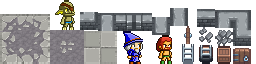
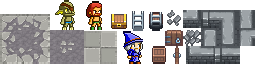
Added level class to load from pixmap

diff --git a/core/src/com/mygdx/game/Level.java b/core/src/com/mygdx/game/Level.java
@@ -1,0 +1,313 @@
+package com.mygdx.game;
+
+import com.badlogic.gdx.Gdx;
+import com.badlogic.gdx.graphics.Pixmap;
+import com.badlogic.gdx.graphics.g2d.SpriteBatch;
+import com.badlogic.gdx.utils.Array;
+import com.mygdx.game.objects.AbstractGameObject;
+import com.mygdx.game.objects.*;
+import com.badlogic.gdx.graphics.g2d.Sprite;
+
+
+public class Level 
+{
+	public static final String TAG = Level.class.getName();
+	
+	public enum BLOCK_TYPE
+	{
+		EMPTY(255,255,255), 			//White
+		WALLHOR(0,0,0),
+		WALLVERT(20,20,20),
+		WALLTOPL(30,30,30),
+		WALLTOPR(40,40,40),
+		WALLBOTL(50,50,50),
+		WALLBOTR(60,60,60),
+		WALLENDL(70,70,70),
+		WALLENDR(80,80,80),
+		WALLENDT(90,90,90),
+		WALLENDB(100,100,100),			//shades of gray
+		DOORHOR(130,60,0),
+		DOORVERT(140,50,0),				//shades of brown
+		GTILE(127,255,255),
+		GBROKEN1(72,255,255),
+		GBROKEN2(0,255,255),			//shades of pale blue
+		RUBBLE(255,100,0),
+		RUBBLEBIG(255,127,0),			//shades of orange
+		LADDERUP(255,0,255),
+		LADDERDOWN(200,0,200),			//shades of purple
+		CHEST(1,38,255);				//blue
+		
+		private int color;
+		
+		private BLOCK_TYPE(int r, int g, int b)
+		{
+			color = r << 24 | g << 16 | b << 8 | 0xff;
+		}
+		
+		public boolean sameColor(int color)	
+		{
+			return this.color == color;
+		}
+		
+		public int getColor()
+		{
+			return color;
+		}
+	}
+	
+	//objects
+	public Array<Wall> walls;
+	public Array<Door> doors;
+	public Array<Rubble> rubbles;
+	public Array<Ladder> ladders;
+	public Array<Chest> chests;
+	
+	//non-interactable textures
+	public Array<Sprite> grounds;
+	
+	public Level (String filename)
+	{
+		init(filename);
+	}
+	
+	private void init(String filename)
+	{
+		//objects
+		walls = new Array<Wall>();
+		doors = new Array<Door>();
+		rubbles = new Array<Rubble>();
+		ladders = new Array<Ladder>();
+		chests = new Array<Chest>();
+		
+		//non-interactable textures
+		grounds = new Array<Sprite>();
+		
+		//load image file that represents the level data
+		Pixmap pixmap = new Pixmap(Gdx.files.internal(filename));
+		
+		//scan pixels form top-left to bottom-right
+		int lastPixel = -1;
+		
+		for(int pixelY = 0; pixelY < pixmap.getHeight(); pixelY++)
+		{
+			for(int pixelX = 0; pixelX < pixmap.getWidth(); pixelX++)
+			{
+				//preparing a super so that the children can be used as if they were the super
+				AbstractGameObject obj = null;
+				Sprite spr = null;
+				float offsetHeight = 0;
+				
+				//height grows from bottom to top
+				float baseHeight = pixmap.getHeight()-pixelY;
+				
+				//get color of current pixels as 32-bit RGBA value
+				int currentPixel = pixmap.getPixel(pixelX, pixelY);
+				
+				//find matching color value to id the block type
+				//create the listed object if there is a match
+				
+				//empty space
+				if(BLOCK_TYPE.EMPTY.sameColor(currentPixel))
+				{
+					
+				}
+				//door horizontal
+				else if(BLOCK_TYPE.DOORHOR.sameColor(currentPixel))
+				{
+					obj = new Door(Assets.instance.door.doorHor);
+					obj.body.setTransform(pixelX, pixelY, 0);
+					doors.add((Door)obj);
+				}
+				//door vertical
+				else if(BLOCK_TYPE.DOORVERT.sameColor(currentPixel))
+				{
+					obj = new Door(Assets.instance.door.doorVert);
+					obj.body.setTransform(pixelX, pixelY, 0);
+					doors.add((Door)obj);
+				}
+				//wall horizontal
+				else if(BLOCK_TYPE.WALLHOR.sameColor(currentPixel))
+				{
+					obj = new Wall(Assets.instance.wall.wallHorizontal);
+					obj.body.setTransform(pixelX, pixelY, 0);
+					walls.add((Wall)obj);
+				}
+				//wall vertical
+				else if(BLOCK_TYPE.WALLVERT.sameColor(currentPixel))
+				{
+					obj = new Wall(Assets.instance.wall.wallVertical);
+					obj.body.setTransform(pixelX, pixelY, 0);
+					walls.add((Wall)obj);
+				}
+				//wall top left corner
+				else if(BLOCK_TYPE.WALLTOPL.sameColor(currentPixel))
+				{
+					obj = new Wall(Assets.instance.wallCorner.topLeft);
+					obj.body.setTransform(pixelX, pixelY, 0);
+					walls.add((Wall)obj);
+				}
+				//wall top right corner
+				else if(BLOCK_TYPE.WALLTOPR.sameColor(currentPixel))
+				{
+					obj = new Wall(Assets.instance.wallCorner.topRight);
+					obj.body.setTransform(pixelX, pixelY, 0);
+					walls.add((Wall)obj);
+				}
+				//wall bottom left corner
+				else if(BLOCK_TYPE.WALLBOTL.sameColor(currentPixel))
+				{
+					obj = new Wall(Assets.instance.wallCorner.bottomLeft);
+					obj.body.setTransform(pixelX, pixelY, 0);
+					walls.add((Wall)obj);
+				}
+				//wall bottom right corner
+				else if(BLOCK_TYPE.WALLBOTR.sameColor(currentPixel))
+				{
+					obj = new Wall(Assets.instance.wallCorner.bottomRight);
+					obj.body.setTransform(pixelX, pixelY, 0);
+					walls.add((Wall)obj);
+				}
+				//wall end left
+				else if(BLOCK_TYPE.WALLENDL.sameColor(currentPixel))
+				{
+					obj = new Wall(Assets.instance.wallEnd.wallEndLeft);
+					obj.body.setTransform(pixelX, pixelY, 0);
+					walls.add((Wall)obj);
+				}
+				//wall end right
+				else if(BLOCK_TYPE.WALLENDR.sameColor(currentPixel))
+				{
+					obj = new Wall(Assets.instance.wallEnd.wallEndRight);
+					obj.body.setTransform(pixelX, pixelY, 0);
+					walls.add((Wall)obj);
+				}
+				//wall end top
+				else if(BLOCK_TYPE.WALLENDT.sameColor(currentPixel))
+				{
+					obj = new Wall(Assets.instance.wallEnd.wallEndTop);
+					obj.body.setTransform(pixelX, pixelY, 0);
+					walls.add((Wall)obj);
+				}
+				//wall end bottom
+				else if(BLOCK_TYPE.WALLENDB.sameColor(currentPixel))
+				{
+					obj = new Wall(Assets.instance.wallEnd.wallEndBot);
+					obj.body.setTransform(pixelX, pixelY, 0);
+					walls.add((Wall)obj);
+				}
+				//tile ground texture
+				else if(BLOCK_TYPE.GTILE.sameColor(currentPixel))
+				{
+					spr = new Sprite(Assets.instance.tile.tile);
+					spr.setOrigin(spr.getWidth() / 2.0f, spr.getHeight() / 2.0f);
+					spr.setPosition(pixelX, pixelY);
+					spr.setSize(1, 1);
+					
+					grounds.add(spr);
+				}
+				//tile broken texture 1
+				else if(BLOCK_TYPE.GBROKEN1.sameColor(currentPixel))
+				{
+					spr = new Sprite(Assets.instance.floor.floor);
+					spr.setOrigin(spr.getWidth() / 2.0f, spr.getHeight() / 2.0f);
+					spr.setPosition(pixelX, pixelY);
+					spr.setSize(1, 1);
+					
+					grounds.add(spr);
+				}
+				//tile broken texture 2
+				else if(BLOCK_TYPE.GBROKEN2.sameColor(currentPixel))
+				{
+					spr = new Sprite(Assets.instance.floorBig.floorBig);
+					spr.setOrigin(spr.getWidth() / 2.0f, spr.getHeight() / 2.0f);
+					spr.setPosition(pixelX, pixelY);
+					spr.setSize(1, 1);
+					
+					grounds.add(spr);
+				}
+				//smaller rubble object
+				else if(BLOCK_TYPE.RUBBLE.sameColor(currentPixel))
+				{
+					obj = new Rubble(Assets.instance.rubble.rubble);
+					obj.body.setTransform(pixelX, pixelY, 0);
+					rubbles.add((Rubble)obj);
+				}
+				//larger rubble object
+				else if(BLOCK_TYPE.RUBBLEBIG.sameColor(currentPixel))
+				{
+					obj = new Rubble(Assets.instance.rubbleBig.rubbleBig);
+					obj.body.setTransform(pixelX, pixelY, 0);
+					rubbles.add((Rubble)obj);
+				}
+				//ladder up
+				//TODO maybe not a static object? maybe can walk through it
+				else if(BLOCK_TYPE.LADDERUP.sameColor(currentPixel))
+				{
+					obj = new Ladder(Assets.instance.ladderUp.ladderUp);
+					obj.body.setTransform(pixelX, pixelY, 0);
+					ladders.add((Ladder)obj);
+				}
+				//ladder down
+				//TODO maybe not a static object? maybe can walk through it
+				else if(BLOCK_TYPE.LADDERDOWN.sameColor(currentPixel))
+				{
+					obj = new Ladder(Assets.instance.ladderDown.ladderDown);
+					obj.body.setTransform(pixelX, pixelY, 0);
+					ladders.add((Ladder)obj);
+				}
+				//chest object
+				else if(BLOCK_TYPE.CHEST.sameColor(currentPixel))
+				{
+					obj = new Chest(Assets.instance.chest.chest);
+					obj.body.setTransform(pixelX, pixelY, 0);
+					chests.add((Chest)obj);
+				}
+				else
+				{
+					int r = 0xff & (currentPixel >>> 24); 	//Red color channel
+					int g = 0xff & (currentPixel >>> 16);	//Green color channel
+					int b = 0xff & (currentPixel >>> 8);	//Blue color channel
+					int a = 0xff & currentPixel;			//alpha channel
+					Gdx.app.error(TAG, "Unknown object at x<" + pixelX + "> y<" + pixelY + ">: r<" + r + "> g<" + g + "> b<" + b + "> a<" + a + ">");
+				}
+				lastPixel = currentPixel;
+			}
+		}
+		
+		//free memory
+		pixmap.dispose();
+		Gdx.app.debug(TAG, "Level '" + filename + "' loaded");
+	}
+	
+	public void render(SpriteBatch batch)
+	{	
+		batch.begin();
+		
+		//draw ground textures
+		for(Sprite ground : grounds)
+			ground.draw(batch);
+		
+		batch.end(); //TODO remove batch commands from here
+		
+		//Draw walls
+		for(Wall wall : walls)
+			wall.render(batch);	
+		
+		//Draw doors
+		for(Door door : doors)
+			door.render(batch);
+		
+		//draw rubble
+		for(Rubble rubble : rubbles)
+			rubble.render(batch);
+		
+		//draw ladders
+		for(Ladder ladder : ladders)
+			ladder.render(batch);
+		
+		//draw chests
+		for(Chest chest : chests)
+			chest.render(batch);
+	}
+	
+}

diff --git a/core/src/com/mygdx/game/WorldController.java b/core/src/com/mygdx/game/WorldController.java
@@ -15,6 +15,7 @@ import com.badlogic.gdx.utils.Array;
 import com.badlogic.gdx.InputAdapter;
 import com.mygdx.game.objects.*;
 import com.mygdx.game.utils.CameraHelper;
+import com.mygdx.game.utils.Constants;
 
 public class WorldController extends InputAdapter
 {
@@ -25,7 +26,7 @@ public class WorldController extends InputAdapter
 	public int selectedSprite;
 	public CameraHelper cameraHelper;
 	public static World b2dWorld;
-	public static Wall testWall;
+	public Level level01;
 	
 	public WorldController()
 	{
@@ -39,12 +40,15 @@ public class WorldController extends InputAdapter
 		b2dWorld = new World(new Vector2(0, 0), true); 
 		initTestObjects();
 		initTestRoomObjects();
-		
-		testWall = new Wall(Assets.instance.wall.wallHorizontal);
-		testWall.body.setTransform(0.0f, 9.0f, 0);
-		Door door = new Door(Assets.instance.door.doorHor);
+		initLevel();
 	}
 	
+	private void initLevel()
+	{
+		level01 = new Level(Constants.LEVEL_01);
+		
+	}
+
 	private void initTestObjects()
 	{
 		// Create new array for 18 sprites

diff --git a/core/src/com/mygdx/game/WorldRenderer.java b/core/src/com/mygdx/game/WorldRenderer.java
@@ -4,6 +4,8 @@ import com.badlogic.gdx.graphics.OrthographicCamera;
 import com.badlogic.gdx.graphics.g2d.Sprite;
 import com.badlogic.gdx.graphics.g2d.SpriteBatch;
 import com.badlogic.gdx.utils.Disposable;
+import com.mygdx.game.objects.AbstractGameObject;
+import com.mygdx.game.objects.Ladder;
 import com.mygdx.game.utils.Constants;
 
 public class WorldRenderer implements Disposable
@@ -29,8 +31,8 @@ public class WorldRenderer implements Disposable
 	public void render ()
 	{
 //		renderTestObjects();
-		renderTestRoom();
-		WorldController.testWall.render(batch);
+//		renderTestRoom();
+		worldController.level01.render(batch);
 	}
 	
 	private void renderTestObjects()

diff --git a/core/src/com/mygdx/game/utils/Constants.java b/core/src/com/mygdx/game/utils/Constants.java
@@ -11,4 +11,7 @@ public class Constants
 
 	//Location of description file for the texture atlas
 	public static final String TEXTURE_ATLAS_OBJECTS =  "../core/assets/amareth.atlas";
+	
+	//Location of level 1
+	public static final String LEVEL_01 = "../core/assets/levels/level01.png";
 }

diff --git a/core/src/com/mygdx/game/objects/AbstractGameObject.java b/core/src/com/mygdx/game/objects/AbstractGameObject.java
@@ -39,6 +39,6 @@ public abstract class AbstractGameObject
 	{
 		batch.begin();
 		batch.draw(reg, body.getPosition().x, body.getPosition().y, 1, 1);	
-		batch.enold();
+		batch.end(); //TODO remove batch commands from here and move to location in renderer
 	}
 }
